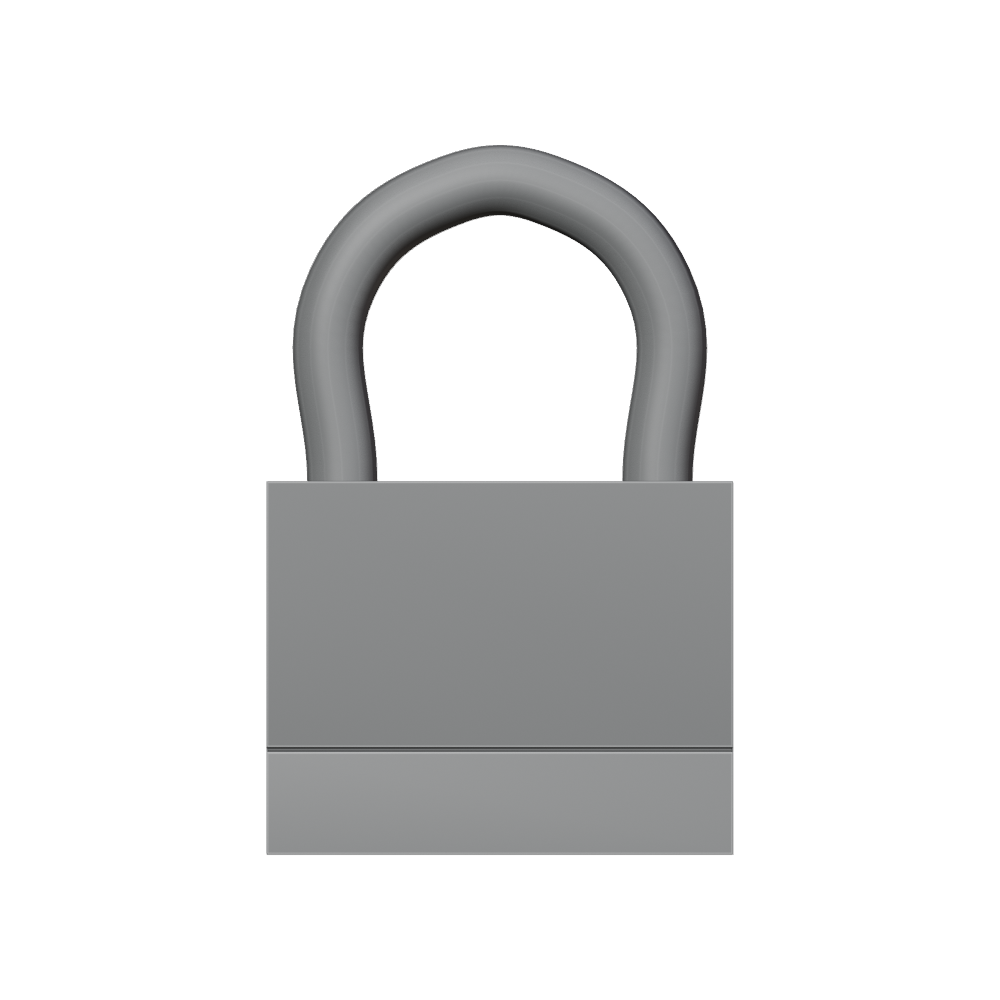
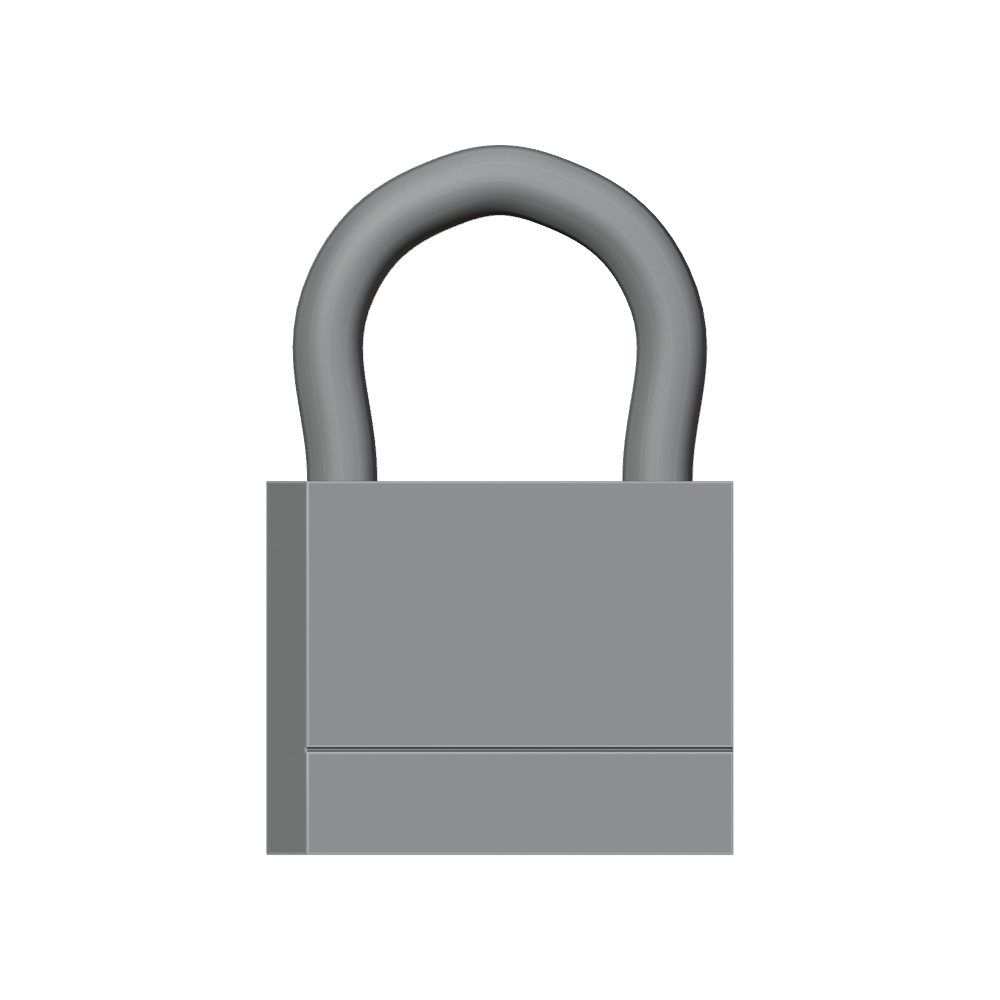
Add the MasterLock 140D front corner chamfer, fixing a real defect found live
Chamfer (revision 11 -> 12): the second gap found against the reference photo, confirmed
genuine on a close crop (a narrow ~3.5mm facet, not just a highlight on a plain corner).
bisect_plane's clear_outer doesn't fill the newly exposed boundary -- bmesh.ops.edgenet_fill
on the returned geom_cut edges closes it correctly, including the notch where the cut
crosses the pre-existing 0.15mm recessed seam band.

Rebuilding the sockets on top surfaced a second, purely visual defect: a diagonal shading
crease across the flat front face, present only in the material render -- 0 non-manifold, 0
degenerate, perfectly planar verts, every structural check clean. Root cause: the socket
frame's X-direction cuts reached the front/back wall's shared boundary edge and silently
fragmented both walls into 7-8 sided n-gons; a second, independent bug compounded it --
shade_smooth_by_angle bakes normals once rather than living as an updating modifier, so new
geometry keeps stale normals until it's explicitly re-applied. Both fixed at the root: frame
cuts now run Y-direction first (safe by position), then X-direction restricted to the
resulting middle band; set_smooth_by_angle re-applied inside both construction steps.

decision_revision 11 -> 12 -> 13, both through real DecisionTransactions. Verified clean
under material rendering after the fixes, not assumed clean from a passing structural check.
Full test suite unaffected (233 passed).

Changed region(s): [[0.248, 0.465, 0.31, 0.651], [0.248, 0.744, 0.31, 0.868]]

diff --git a/runs/2026-08-20_masterlock-140d-resume/README.md b/runs/2026-08-20_masterlock-140d-resume/README.md
@@ -97,9 +97,45 @@ project doesn't apply to a planar, non-subdivided face.
 Fresh check after commit: 0 non-manifold edges, 0 degenerate faces, 0 loose vertices. Full test
 suite unaffected (233 passed).
 
+## Front corner chamfer (decision_revision 11 -> 12) and a rebuild after a real defect
+
+Closed the second gap found against the reference: a narrow (~3.5 mm) flat facet at the front-left
+vertical corner. A close crop of the reference photo confirmed it's a genuine third facet (a small
+manufacturing chamfer), not just a specular highlight on a normal box corner -- and considerably
+narrower than first guessed ("large 45-degree facet" was an overstatement from the initial read).
+
+Getting a *watertight* cut here took real diagnosis, all against a mesh with a pre-existing
+delicate detail right at that same corner (the stage-12 recessed front seam band, only 0.15 mm
+wide): `bisect_plane(..., clear_outer=True)` deletes the cut-off material but does not fill the
+newly exposed boundary with a face -- found live as non-manifold edges even on the simple
+pre-socket mesh, nowhere near the sockets. `bmesh.ops.edgenet_fill` on the returned `geom_cut`
+edges closes it correctly, including the small notch where the cut crosses the seam band.
+
+**Rebuilding the sockets on top of the chamfer surfaced a second, more serious defect**, this one
+purely visual: a diagonal shading crease across the otherwise flat front face, in the material
+render only -- 0 non-manifold edges, 0 degenerate faces, perfectly planar vertices, every
+structural check clean. Root cause, found by direct inspection rather than assumption: the socket
+frame's X-direction bisect cuts were restricted to "the whole top plane" but not to the local
+socket area, so they reached all the way to the front/back wall's *shared* boundary edge at
+y=+-8 and split it -- splitting a shared edge splits it for every face using it, not just the top
+face, silently fragmenting the front and back walls into 7-8 sided flat n-gons. A second,
+independent bug compounded it: `shade_smooth_by_angle` bakes custom split normals at the moment
+it's called rather than living as an updating modifier on this object, so even after any fix, new
+bmesh geometry keeps stale normals until it's explicitly re-applied.
+
+Both are now fixed at the root: the frame cuts run Y-direction first (safe by position, since
+y=+-5 never reaches y=+-8), *then* X-direction restricted to the resulting middle band, which no
+longer touches the wall boundary at all; and `object_ops.set_smooth_by_angle` is re-applied inside
+both construction steps, immediately after `_write_back`, not deferred as an afterthought. Verified
+directly: `brass_body`'s front and back walls are clean 4-vertex quads again.
+
 ## Status
 
-Sockets built and verified. **Not yet done**: the front corner chamfer (the second gap found against
-the reference, a 45-degree facet, still not built) and a fresh full-view human review of this
-socket work specifically -- the renders here are my own inspection, not a substitute for that. No
-claim of "done," "fixed," or "clean" beyond what these renders actually show.
+Chamfer and sockets both built and committed through real `DecisionTransaction`s
+(`decision_revision` 11 -> 12 -> 13), structurally clean (0 non-manifold, 0 degenerate, 0 loose
+verts) and, this time, actually verified clean under material rendering after the fixes above --
+not assumed clean from a passing structural check. Full test suite unaffected (233 passed).
+
+**Not yet done**: a fresh full-view human review of this specific work -- the renders here are my
+own inspection, not a substitute for that. No claim of "done," "fixed," or "clean" beyond what
+these renders actually show.
